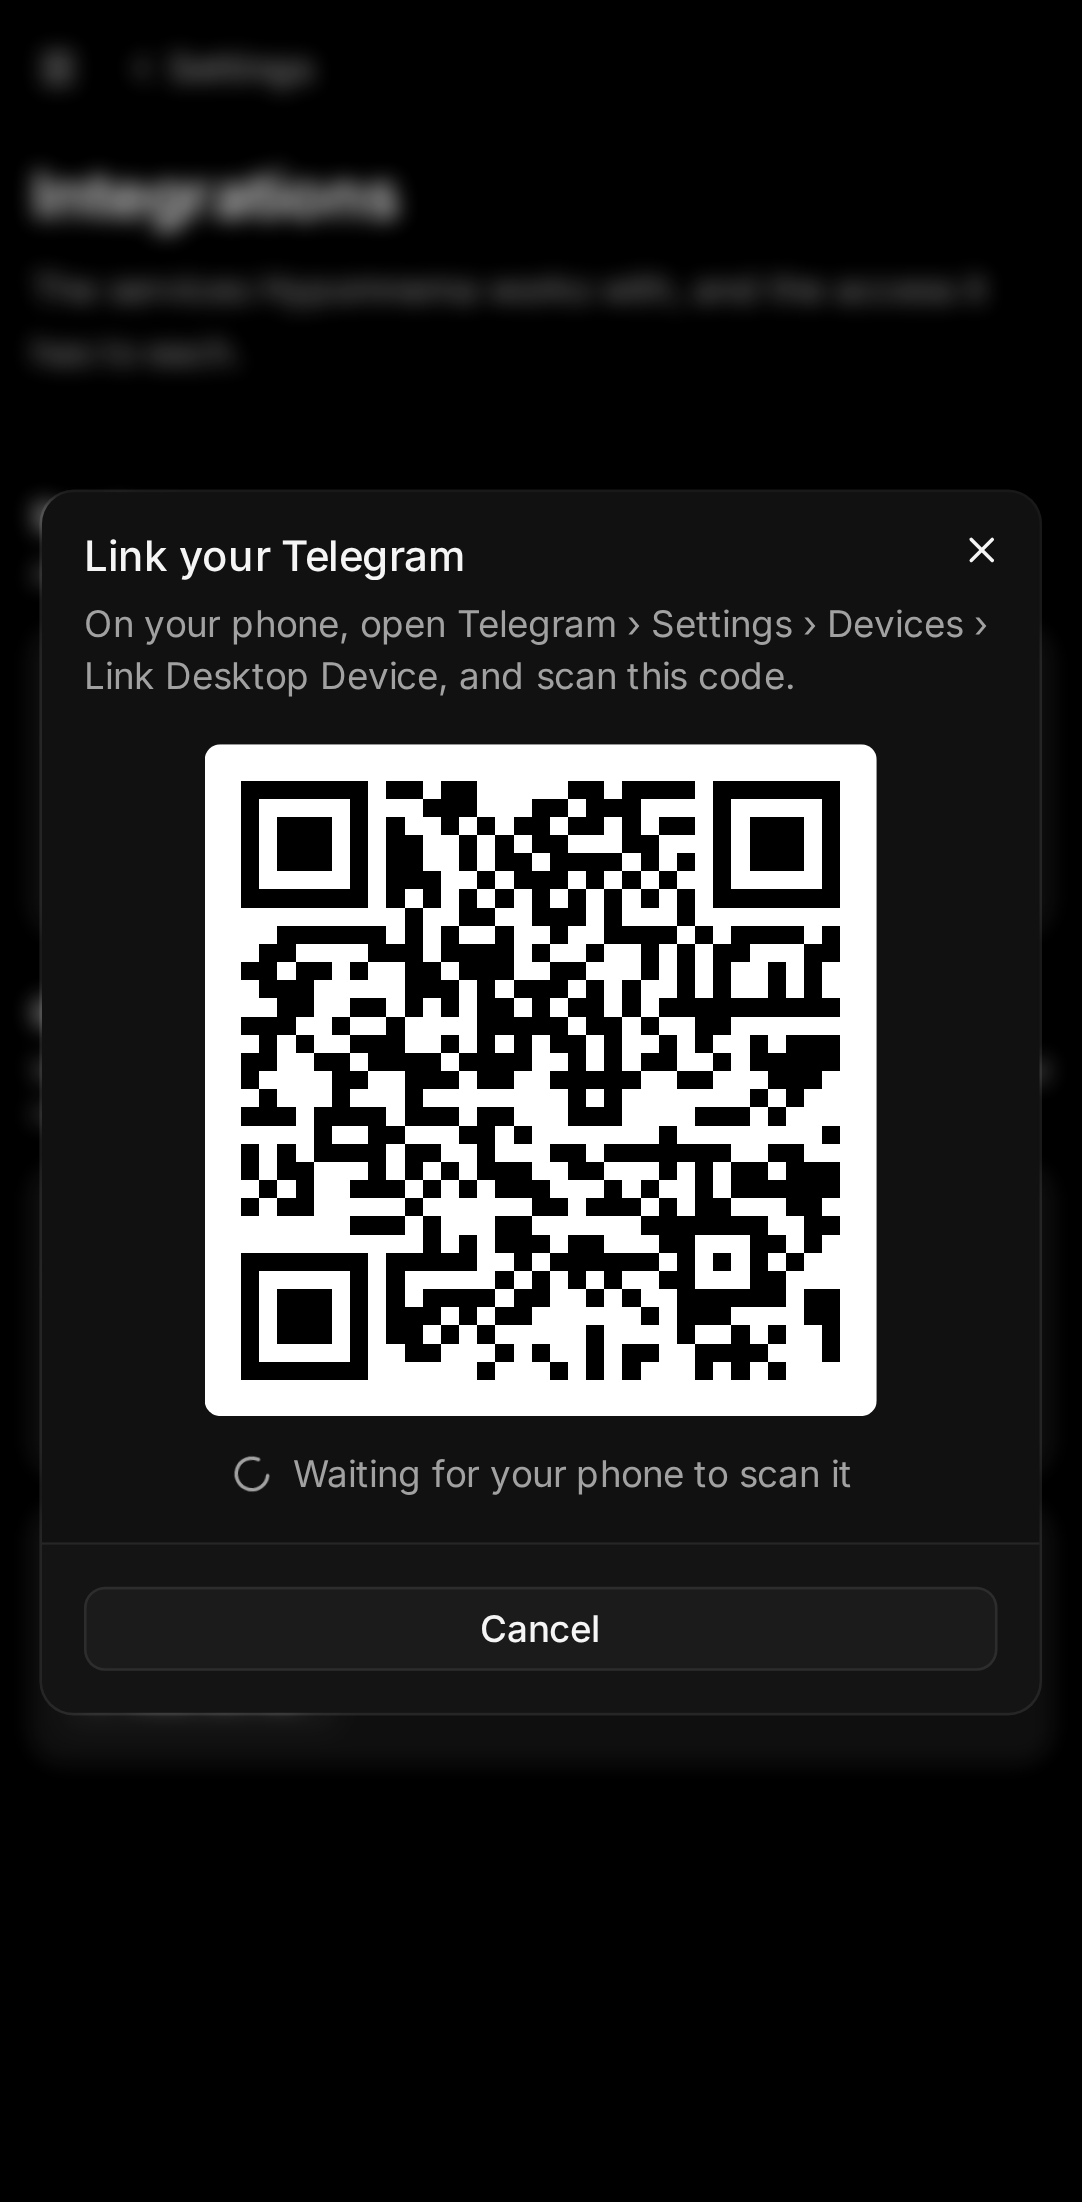
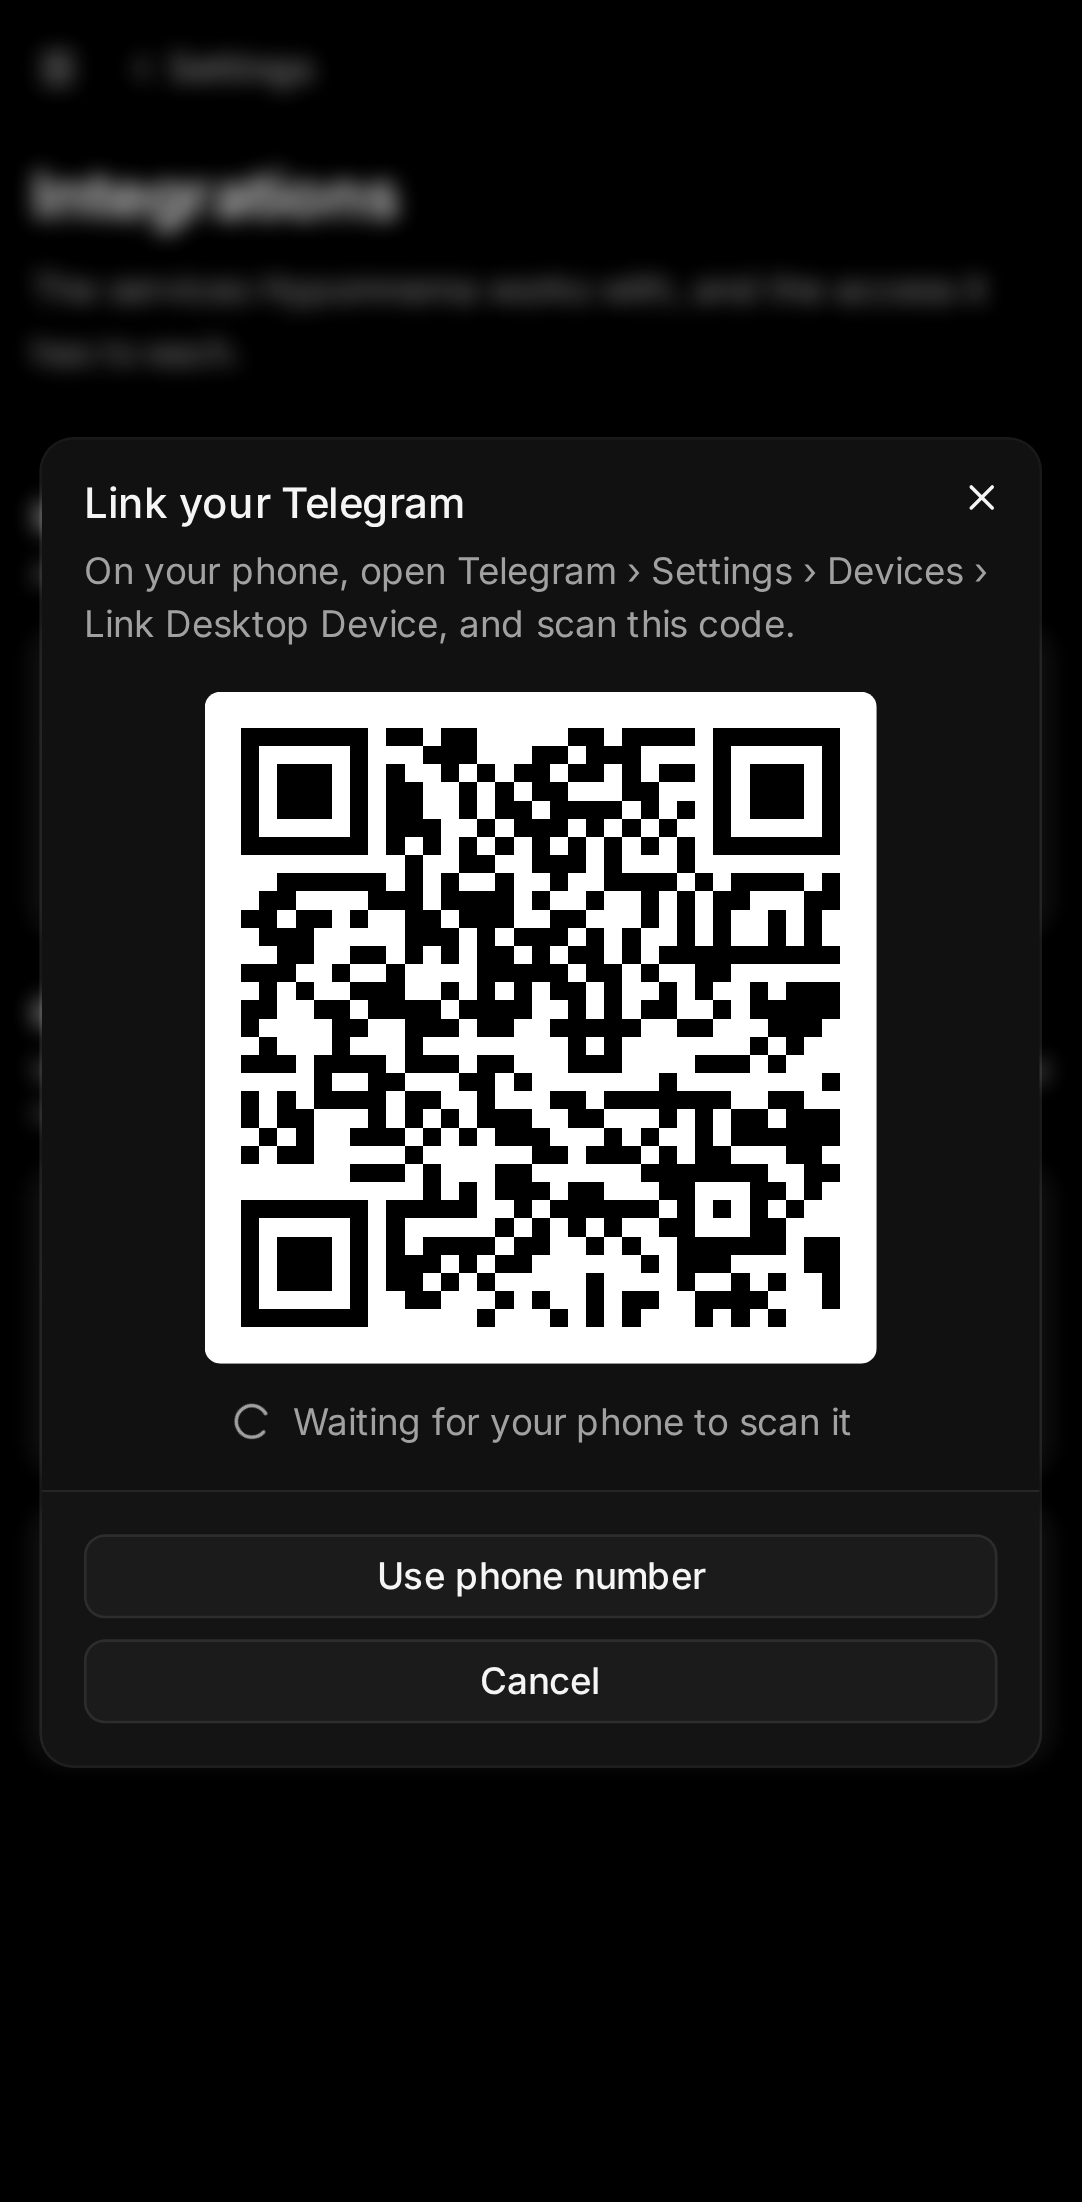
docs(telegram): retake the UI check after review round 1: code, wrong password, phone from the QR step (#1184)

Changed region(s): [[0.061, 0.2162, 0.915, 0.6794], [0.366, 0.7103, 0.6405, 0.772]]

diff --git a/docs/ui-checks/1184/index.html b/docs/ui-checks/1184/index.html
@@ -23,7 +23,7 @@
     <h1>The owner's Telegram: link steps and the Telegram tab (#1184)</h1>
     <p>
       Taken by <code>web/tests/telegram-1184.spec.ts</code> against a fake client API, on a computer (Desktop Chrome)
-      and a phone (Pixel 7), in light and dark. Every number, code, password and name is made up.
+      and a phone (Pixel 7), in light and dark. Every name is made up; the numbers are in Telegram's test range (+999 66 X YYYY).
     </p>
     <section>
       <h2>The api_id is missing</h2>
@@ -79,7 +79,7 @@
     </section>
     <section>
       <h2>The QR code</h2>
-      <p>Telegram's login link as a QR code, and where to scan it (Settings › Devices › Link Desktop Device).</p>
+      <p>Telegram's login link as a QR code, where to scan it (Settings › Devices › Link Desktop Device), and Use phone number to switch without closing.</p>
       <h3>Light</h3>
       <div class="screens">
         <figure>
@@ -130,6 +130,32 @@
       </div>
     </section>
     <section>
+      <h2>A wrong password</h2>
+      <p>The two-step password, refused once: asked again with its hint, the field empty (nothing typed is kept).</p>
+      <h3>Light</h3>
+      <div class="screens">
+        <figure>
+          <figcaption>Desktop</figcaption>
+          <img src="telegram-link-password-again-light-desktop.png" alt="A wrong password, desktop, light">
+        </figure>
+        <figure class="phone">
+          <figcaption>Phone</figcaption>
+          <img src="telegram-link-password-again-light-phone.png" alt="A wrong password, phone, light">
+        </figure>
+      </div>
+      <h3>Dark</h3>
+      <div class="screens">
+        <figure>
+          <figcaption>Desktop</figcaption>
+          <img src="telegram-link-password-again-dark-desktop.png" alt="A wrong password, desktop, dark">
+        </figure>
+        <figure class="phone">
+          <figcaption>Phone</figcaption>
+          <img src="telegram-link-password-again-dark-phone.png" alt="A wrong password, phone, dark">
+        </figure>
+      </div>
+    </section>
+    <section>
       <h2>By phone number</h2>
       <p>Use phone number: the number, with its country code.</p>
       <h3>Light</h3>
@@ -152,6 +178,32 @@
         <figure class="phone">
           <figcaption>Phone</figcaption>
           <img src="telegram-link-phone-dark-phone.png" alt="By phone number, phone, dark">
+        </figure>
+      </div>
+    </section>
+    <section>
+      <h2>The code</h2>
+      <p>The code Telegram sent, asked once the number was taken, and where it was sent.</p>
+      <h3>Light</h3>
+      <div class="screens">
+        <figure>
+          <figcaption>Desktop</figcaption>
+          <img src="telegram-link-code-light-desktop.png" alt="The code, desktop, light">
+        </figure>
+        <figure class="phone">
+          <figcaption>Phone</figcaption>
+          <img src="telegram-link-code-light-phone.png" alt="The code, phone, light">
+        </figure>
+      </div>
+      <h3>Dark</h3>
+      <div class="screens">
+        <figure>
+          <figcaption>Desktop</figcaption>
+          <img src="telegram-link-code-dark-desktop.png" alt="The code, desktop, dark">
+        </figure>
+        <figure class="phone">
+          <figcaption>Phone</figcaption>
+          <img src="telegram-link-code-dark-phone.png" alt="The code, phone, dark">
         </figure>
       </div>
     </section>
@@ -183,7 +235,7 @@
     </section>
     <section>
       <h2>The Telegram tab</h2>
-      <p>Inbox › Chats the secretary reads: a Telegram tab with its counts; a person and the groups read, bots, Telegram's own account and a channel skipped by default.</p>
+      <p>Inbox › Chats the secretary reads: a Telegram tab with its counts; a person and the groups read (an ordinary group named Engineering Newsletter too: Telegram's flags only), bots, Telegram's own account and a channel skipped by default.</p>
       <h3>Light</h3>
       <div class="screens">
         <figure>
